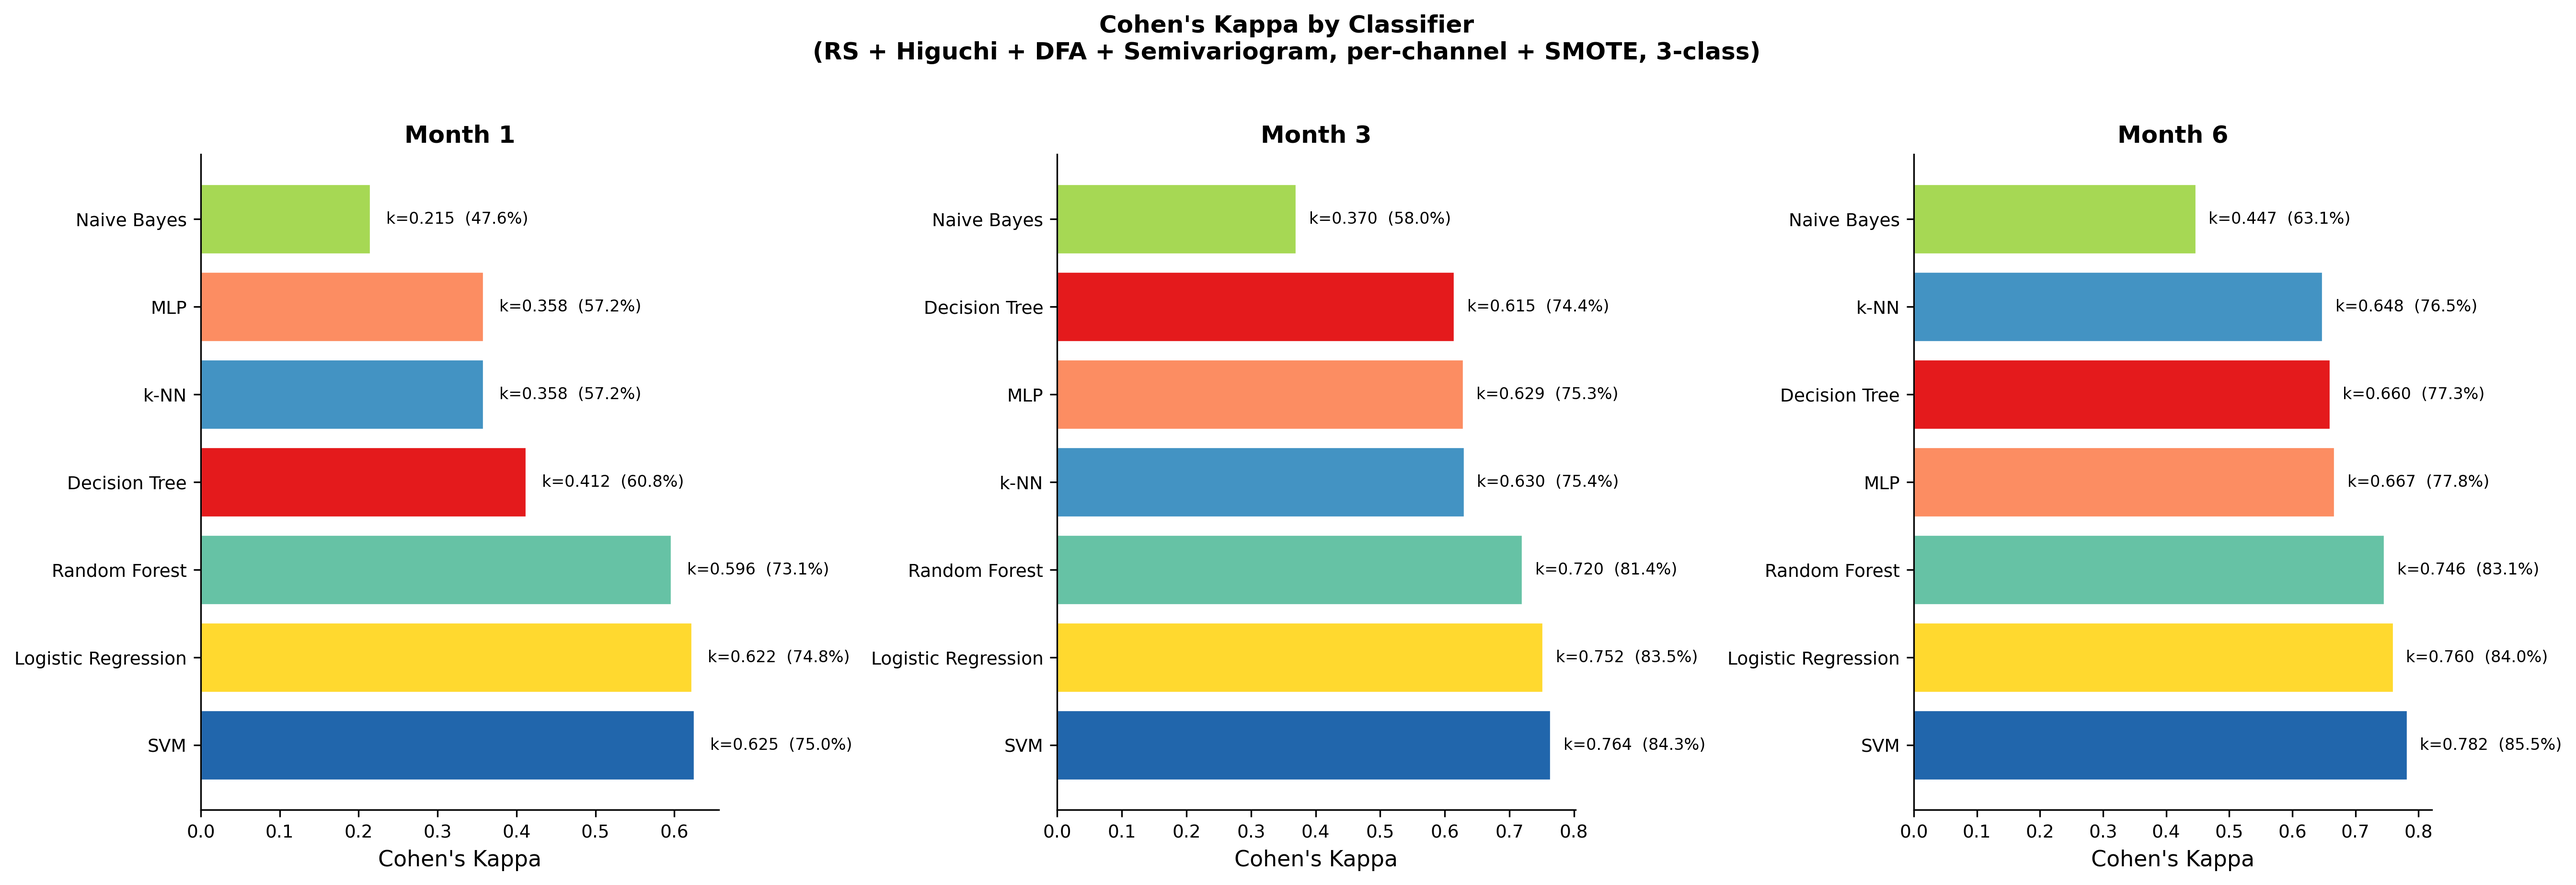
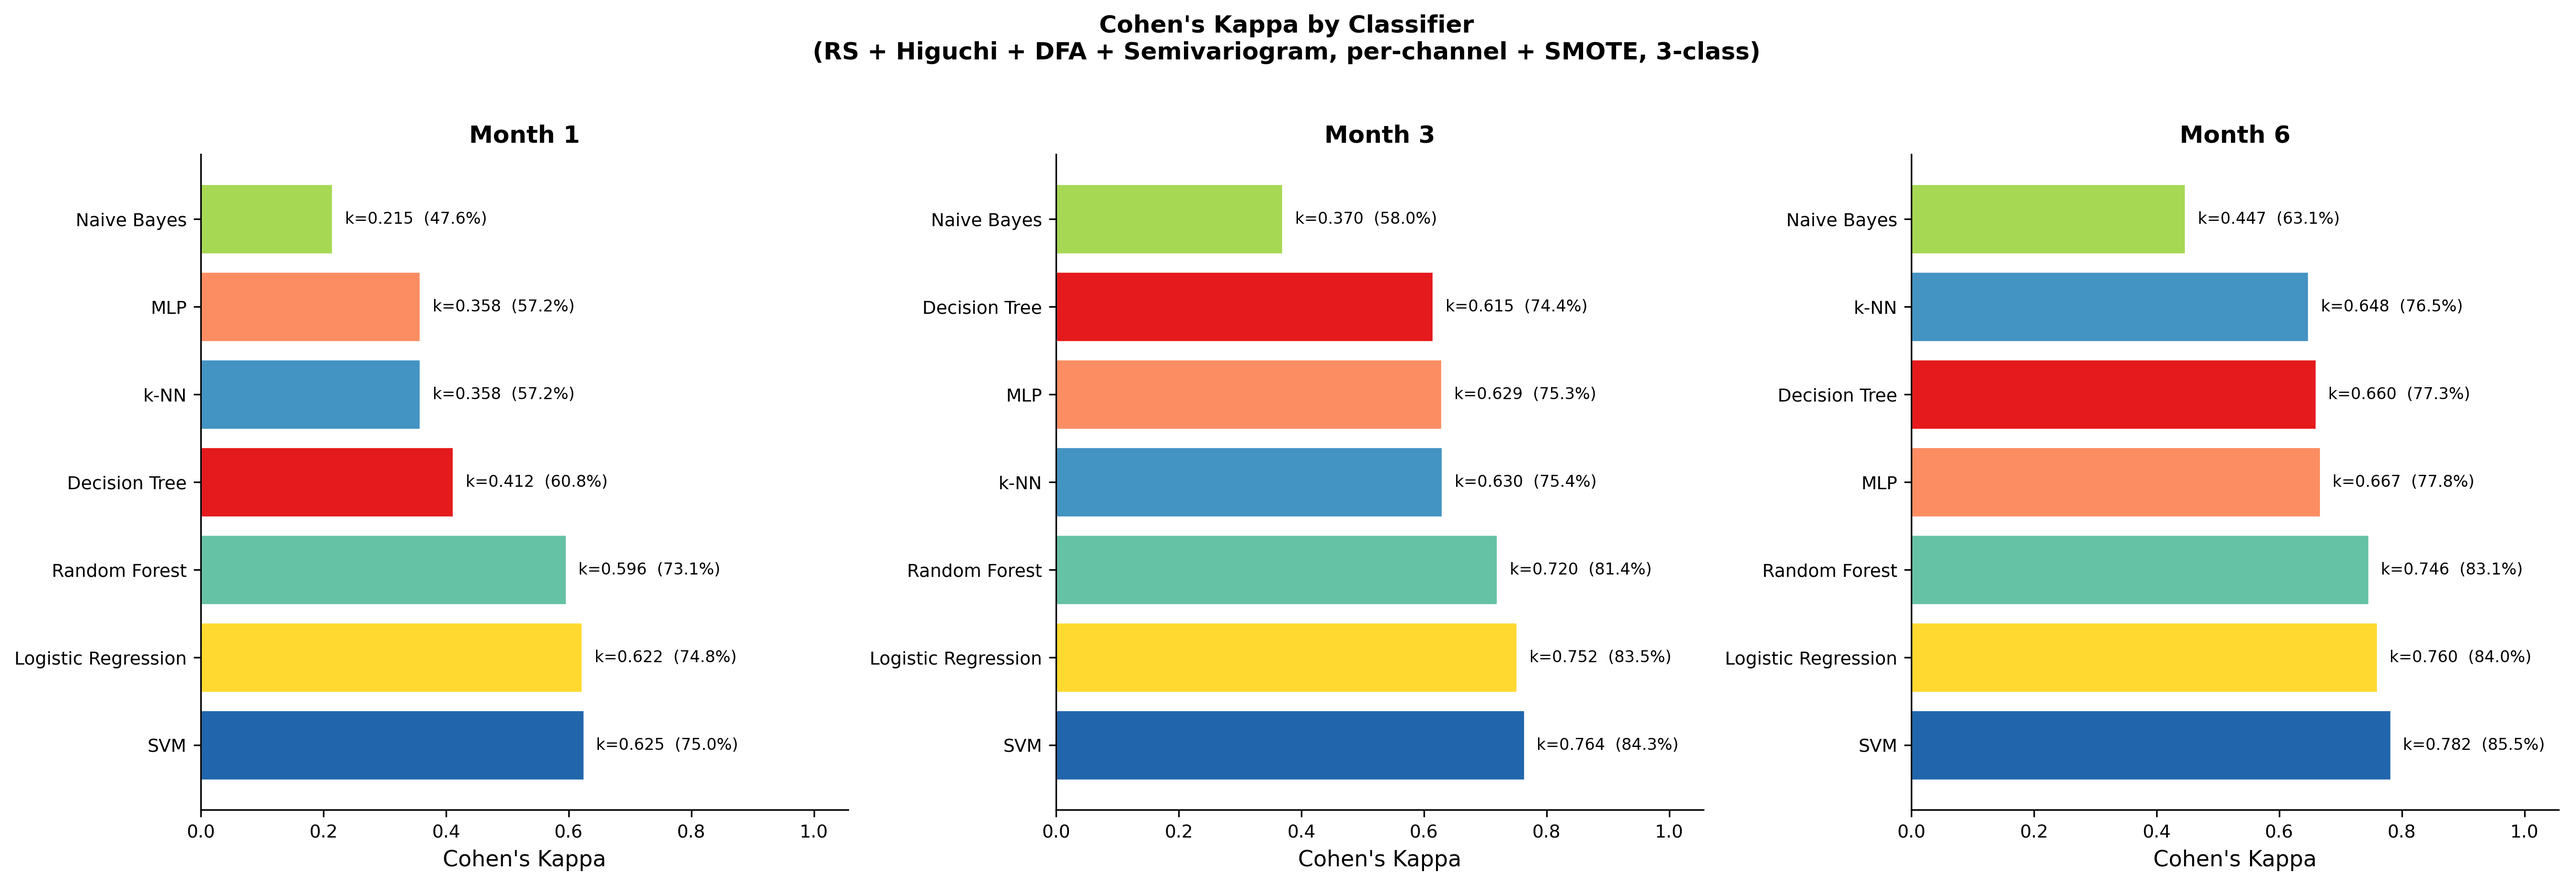
Fix INFORME_FRACTAL.md figure bugs (stale CSV, truncated/inconsistent axes) + add heatmap view
Same audit pass applied to the second document's plotting code
(src/viz/plots_fractal.py, INFORME_FRACTAL.md's SMOTE-based 3-class track)
after fixing the equivalent bugs in the W700/INFORME_COMPLETO.md pipeline:

- src/viz/plots_fractal.py: RESULTS_CSV pointed at
  "results_W700_fractal_extended.csv", a filename
  scripts/classify_fractal_extended.py stopped writing to (it writes
  "..._v2.csv") — the same stale-pointer bug pattern found in
  classify_w700_full.py earlier in this branch. Fixed to read the v2 file
  (a strict superset of columns, verified 0 max-abs-diff on the shared
  Accuracy/Kappa columns in this snapshot, so no rendered numbers changed
  today — but the pointer was wrong regardless).
- plot_kappa_comparison(): the 3 per-month subplots auto-scaled their x-axis
  independently (Month 1 topped out near 0.6, Month 3/6 near 0.8), making
  bars visually similar in length across months despite different absolute
  kappa values. Now computed and shared across all 3 subplots.
- scripts/plot_tuned_results.py plot_tuning_impact(): bar chart y-axis was
  set_ylim(60, 94) — a non-zero baseline on a bar chart (unlike a line
  chart) visually exaggerates the default-vs-tuned gap, and was
  inconsistent with the sibling plot in the same file which starts at 0.
  Changed to (0, 95); had to scale up the value-label/delta-annotation
  offsets ~2.8x to match (they were tuned for the old, much narrower
  visible range and started overlapping on the taller axis).
[…]

diff --git a/src/viz/plots_fractal.py b/src/viz/plots_fractal.py
@@ -45,7 +45,13 @@ C_MONTHS = {"Month 1": "#377EB8", "Month 3": "#4DAF4A", "Month 6": "#E41A1C"}
 
 ALL_CHANNELS = cfg.CHANNEL_NAMES
 PER_CH_METHODS_BASIC = ["RS", "Higuchi", "DFA", "Variogram"]
-RESULTS_CSV = os.path.join(cfg.CLASSIFICATION_DIR, "results_W700_fractal_extended.csv")
+# NOTE: was "results_W700_fractal_extended.csv" (no "_v2") — a stale
+# filename that scripts/classify_fractal_extended.py stopped writing to at
+# some point (it writes "..._v2.csv"). Every plot below that reads via
+# _load_results() was silently drawing from an older classification run.
+# v2 is a strict superset of columns (adds Patient_Accuracy_Mean/Std,
+# N_Patients) with the same row count/structure, so this is a safe swap.
+RESULTS_CSV = os.path.join(cfg.CLASSIFICATION_DIR, "results_W700_fractal_extended_v2.csv")
 FEATURES_CSV = os.path.join(cfg.FEATURES_DIR, "Fixed_W700_3class_Features.csv")
 PLOTS_DIR = cfg.PLOTS_DIR
 
@@ -305,6 +311,134 @@ def plot_per_channel_comparison(output_dir=None):
     print("  [OK] per_channel_comparison.png")
 
 
+# ==================== PLOT 3b (heatmap alternative, added separately) ====================
+def plot_per_channel_comparison_heatmap(output_dir=None):
+    """Heatmap alternative to plot_per_channel_comparison() above.
+
+    Same 7-model x 10-feature-subset x 3-month data (including the same
+    TUNED_INDIVIDUAL/TUNED_BASIC hardcoded overrides), rendered as an
+    annotated heatmap instead of grouped bars. The grouped-bar version
+    packs 7*10=70 bars into each of 3 subplots, which is dense enough to be
+    hard to read at print size; a heatmap reads the same numbers via color
+    + text instead of 70 adjacent bar heights.
+
+    Does NOT modify or replace plot_per_channel_comparison() or its output
+    file — saves to a separate "per_channel_comparison_heatmap.png".
+    """
+    output_dir = _ensure_dir() if output_dir is None else output_dir
+    df = _load_results()
+    sub3 = df[(df["Class_Type"] == "3class") & (df["Group"] == "B")]
+
+    pc_ids = ["B2_HO_pc", "B3_HV_pc", "B1_HRS_pc", "B4_Martinez_pc",
+              "_RS", "_Higuchi", "_DFA", "_Semivariogram",
+              "B5_Basic_pc", "B6_All7_pc"]
+    pc_labels = ["Hurst (HO)", "Hurst—Semivariogram (HV)", "Hurst R/S (HRS) p=64",
+                 "HO + HRS + HV", "RS", "Higuchi", "DFA", "Semivariogram",
+                 "RS+Higuchi+DFA+Semivariogram", "All 7 (Basic+HO+HRS+HV)"]
+    model_order = ["SVM", "kNN", "RandomForest", "NaiveBayes", "LogisticRegression", "MLP", "DecisionTree"]
+    model_display = {"SVM": "SVM", "kNN": "k-NN", "RandomForest": "Random Forest",
+                     "NaiveBayes": "Naive Bayes", "LogisticRegression": "Logistic Regression",
+                     "MLP": "MLP", "DecisionTree": "Decision Tree"}
+
+    # Identical lookup tables to plot_per_channel_comparison(), duplicated
+    # rather than shared so neither function depends on the other.
+    TUNED_INDIVIDUAL = {
+        "Mes 1": {
+            "_RS": {"SVM": 57.76, "kNN": 47.24, "RandomForest": 59.69, "NaiveBayes": 44.08,
+                    "LogisticRegression": 53.98, "MLP": 53.06, "DecisionTree": 52.35},
+            "_Higuchi": {"SVM": 75.20, "kNN": 65.31, "RandomForest": 70.51, "NaiveBayes": 47.24,
+                         "LogisticRegression": 76.12, "MLP": 65.82, "DecisionTree": 65.82},
+            "_DFA": {"SVM": 66.02, "kNN": 62.35, "RandomForest": 67.76, "NaiveBayes": 46.22,
+                     "LogisticRegression": 62.86, "MLP": 56.02, "DecisionTree": 59.59},
+            "_Semivariogram": {"SVM": 67.55, "kNN": 60.92, "RandomForest": 65.82, "NaiveBayes": 46.53,
+                               "LogisticRegression": 64.59, "MLP": 58.78, "DecisionTree": 58.57},
+        },
+        "Mes 6": {
+            "_RS": {"SVM": 67.98, "kNN": 63.47, "RandomForest": 73.62, "NaiveBayes": 52.76,
+                    "LogisticRegression": 66.18, "MLP": 61.56, "DecisionTree": 62.68},
+            "_Higuchi": {"SVM": 81.17, "kNN": 81.85, "RandomForest": 83.20, "NaiveBayes": 57.50,
+                         "LogisticRegression": 84.22, "MLP": 73.96, "DecisionTree": 77.45},
+            "_DFA": {"SVM": 77.00, "kNN": 73.39, "RandomForest": 80.83, "NaiveBayes": 55.81,
+                     "LogisticRegression": 76.10, "MLP": 70.69, "DecisionTree": 73.39},
+            "_Semivariogram": {"SVM": 78.02, "kNN": 74.52, "RandomForest": 78.69, "NaiveBayes": 58.74,
+                               "LogisticRegression": 78.92, "MLP": 68.88, "DecisionTree": 73.62},
+        },
+        "Mes 3": {
+            "_RS": {"SVM": 61.36, "kNN": 57.91, "RandomForest": 66.18, "NaiveBayes": 53.64,
+                    "LogisticRegression": 58.27, "MLP": 50.09, "DecisionTree": 59.00},
+            "_Higuchi": {"SVM": 83.45, "kNN": 76.45, "RandomForest": 80.36, "NaiveBayes": 53.45,
+                         "LogisticRegression": 80.82, "MLP": 57.73, "DecisionTree": 74.18},
+            "_DFA": {"SVM": 64.82, "kNN": 59.27, "RandomForest": 65.00, "NaiveBayes": 53.82,
+                     "LogisticRegression": 61.00, "MLP": 51.45, "DecisionTree": 57.55},
+            "_Semivariogram": {"SVM": 72.64, "kNN": 66.82, "RandomForest": 72.82, "NaiveBayes": 53.09,
+                               "LogisticRegression": 65.36, "MLP": 53.09, "DecisionTree": 65.45},
+        },
+    }
+    TUNED_BASIC = {
+        "Mes 1": {"SVM": 75.00, "kNN": 57.24, "RandomForest": 73.06, "NaiveBayes": 47.65,
+                  "LogisticRegression": 74.80, "MLP": 57.24, "DecisionTree": 60.82},
+        "Mes 3": {"SVM": 84.27, "kNN": 75.36, "RandomForest": 81.36, "NaiveBayes": 58.00,
+                  "LogisticRegression": 83.45, "MLP": 75.27, "DecisionTree": 74.36},
+        "Mes 6": {"SVM": 85.46, "kNN": 76.55, "RandomForest": 83.09, "NaiveBayes": 63.13,
+                  "LogisticRegression": 83.99, "MLP": 77.79, "DecisionTree": 77.34},
+    }
+
+    months_disp = ["Month 1", "Month 3", "Month 6"]
+    months_key = ["Mes 1", "Mes 3", "Mes 6"]
+
+    # Build one (n_subsets x n_models) accuracy matrix per month first, so
+    # all three heatmaps can share one color scale (same principle as the
+    # kappa_comparison.png x-axis fix: comparable panels need comparable ranges).
+    matrices = []
+    for mkey in months_key:
+        ms = sub3[sub3["Month"] == mkey]
+        mat = np.full((len(pc_ids), len(model_order)), np.nan)
+        for r, sid in enumerate(pc_ids):
+            for c, mname in enumerate(model_order):
+                if sid == "B5_Basic_pc" and mkey in TUNED_BASIC:
+                    mat[r, c] = TUNED_BASIC[mkey].get(mname, np.nan)
+                elif sid.startswith("_") and mkey in TUNED_INDIVIDUAL and sid in TUNED_INDIVIDUAL[mkey]:
+                    mat[r, c] = TUNED_INDIVIDUAL[mkey][sid].get(mname, np.nan)
+                else:
+                    row = ms[(ms["Model"] == mname) & (ms["Feature_Subset"] == sid)]
+                    if len(row) > 0:
+                        mat[r, c] = row.iloc[0]["Accuracy"] * 100
+        matrices.append(mat)
+
+    vmin = np.nanmin([np.nanmin(m) for m in matrices])
+    vmax = np.nanmax([np.nanmax(m) for m in matrices])
+
+    fig, axes = plt.subplots(1, 3, figsize=(19, 7), sharey=True)
+    im = None
+    for ax, mat, mdisp in zip(axes, matrices, months_disp):
+        im = ax.imshow(mat, cmap="YlGnBu", vmin=vmin, vmax=vmax, aspect="auto")
+        ax.set_xticks(range(len(model_order)))
+        ax.set_xticklabels([model_display[m] for m in model_order], rotation=40, ha="right", fontsize=8)
+        ax.set_title(mdisp, fontweight="bold")
+        # Text color flips to white on the darkest (highest-accuracy) cells
+        # for legibility against the sequential colormap.
+        threshold = vmin + (vmax - vmin) * 0.65
+        for r in range(mat.shape[0]):
+            for c in range(mat.shape[1]):
+                v = mat[r, c]
+                if np.isnan(v):
+                    continue
+                color = "white" if v >= threshold else "black"
+                ax.text(c, r, f"{v:.1f}", ha="center", va="center", fontsize=7, color=color)
+    axes[0].set_yticks(range(len(pc_labels)))
+    axes[0].set_yticklabels(pc_labels, fontsize=8)
+
+    cbar = fig.colorbar(im, ax=axes, fraction=0.02, pad=0.02)
+    cbar.set_label("Accuracy (%)")
+
+    fig.suptitle("Per-Channel Feature Subset Comparison (3-class, SMOTE) — heatmap view",
+                 fontweight="bold", y=1.03)
+    path = os.path.join(output_dir, "per_channel_comparison_heatmap.png")
+    fig.savefig(path, bbox_inches="tight")
+    plt.close(fig)
+    print("  [OK] per_channel_comparison_heatmap.png")
+
+
 # ==================== PLOT 4 ====================
 def plot_channel_scaling(output_dir=None):
     output_dir = _ensure_dir() if output_dir is None else output_dir
@@ -502,9 +636,14 @@ def plot_kappa_comparison(output_dir=None):
                     "NaiveBayes": "#A6D854", "LogisticRegression": "#FFD92F",
                     "MLP": "#FC8D62", "DecisionTree": "#E41A1C"}
 
-    fig, axes = plt.subplots(1, 3, figsize=(18, 6))
-    for ax_idx, (mkey, mdisp) in enumerate(zip(months_key, months_disp)):
-        ax = axes[ax_idx]
+    # First pass: build each month's data and find the global max kappa, so
+    # all three subplots can share one x-axis range (was auto-scaled
+    # per-subplot before — Month 1 topped out near 0.6 while Month 3/6 went
+    # to ~0.8, making the bars visually similar in length across subplots
+    # despite representing different absolute kappa values).
+    months_data = []
+    global_max_kappa = 0.0
+    for mkey, mdisp in zip(months_key, months_disp):
         if mkey in TUNED_KAPPA:
             data = [{"model": m, "kappa": TUNED_KAPPA[mkey][m], "acc": TUNED_ACC[mkey][m]} for m in model_order]
         else:
@@ -515,6 +654,15 @@ def plot_kappa_comparison(output_dir=None):
                 if len(row) > 0:
                     data.append({"model": mname, "kappa": row.iloc[0]["Kappa"], "acc": row.iloc[0]["Accuracy"] * 100})
         data.sort(key=lambda d: d["kappa"], reverse=True)
+        months_data.append(data)
+        if data:
+            global_max_kappa = max(global_max_kappa, max(d["kappa"] for d in data))
+
+    shared_xlim = global_max_kappa * 1.35  # headroom for the "k=... (...%)" text labels
+
+    fig, axes = plt.subplots(1, 3, figsize=(18, 6))
+    for ax_idx, (mdisp, data) in enumerate(zip(months_disp, months_data)):
+        ax = axes[ax_idx]
         models = [d["model"] for d in data]
         kappas = [d["kappa"] for d in data]
         accs = [d["acc"] for d in data]
@@ -527,6 +675,7 @@ def plot_kappa_comparison(output_dir=None):
         ax.set_xlabel("Cohen's Kappa")
         ax.set_title(mdisp, fontweight="bold")
         ax.axvline(x=0, color="black", linewidth=0.5)
+        ax.set_xlim(0, shared_xlim)
         for bar, k, acc in zip(ax.patches, kappas, accs):
             ax.text(bar.get_width() + 0.02, bar.get_y() + bar.get_height() / 2,
                     f"k={k:.3f}  ({acc:.1f}%)", va="center", fontsize=8)

diff --git a/scripts/plot_tuned_results.py b/scripts/plot_tuned_results.py
@@ -162,17 +162,21 @@ def plot_tuning_impact():
     bars1 = ax.bar(x - width / 2, defaults, width, label="SVM (default)", color="#D1E5F0", edgecolor="white")
     bars2 = ax.bar(x + width / 2, tuned, width, label="SVM (optimized)", color="#2166AC", edgecolor="white")
 
+    # Label offsets scaled up ~2.8x vs. the original (were tuned for the old
+    # set_ylim(60, 94) truncated axis, where 34 data-units filled the figure
+    # height; on the honest 0-95 axis the same absolute offsets left the
+    # value labels and the "+X pts" delta boxes visually overlapping.
     for bar, v in zip(bars1, defaults):
-        ax.text(bar.get_x() + bar.get_width() / 2, bar.get_height() + 0.5,
+        ax.text(bar.get_x() + bar.get_width() / 2, bar.get_height() + 1.5,
                 f"{v:.1f}%", ha="center", fontsize=9)
     for bar, v in zip(bars2, tuned):
-        ax.text(bar.get_x() + bar.get_width() / 2, bar.get_height() + 0.5,
+        ax.text(bar.get_x() + bar.get_width() / 2, bar.get_height() + 1.5,
                 f"{v:.1f}%", ha="center", fontsize=9, fontweight="bold", color="#2166AC")
 
     # Deltas
     for i, (d, t) in enumerate(zip(defaults, tuned)):
         delta = t - d
-        ax.annotate(f"+{delta:.1f} pts", (x[i] + width / 2, t + 3),
+        ax.annotate(f"+{delta:.1f} pts", (x[i] + width / 2, t + 8),
                     ha="center", fontsize=10, fontweight="bold", color="#2166AC",
                     bbox=dict(boxstyle="round,pad=0.2", facecolor="white", alpha=0.8))
 
@@ -183,7 +187,11 @@ def plot_tuning_impact():
     ax.set_title("SVM: default vs. optimized hyperparameters\n(Basic per-channel features + SMOTE, 3-class)", fontsize=14, fontweight="bold")
     ax.legend(loc="lower right", fontsize=11)
     ax.grid(True, alpha=0.3, axis="y", linestyle=":")
-    ax.set_ylim(60, 94)
+    # Was set_ylim(60, 94): a non-zero baseline on a BAR chart exaggerates
+    # the visual size of the default-vs-tuned gap (bar height is the visual
+    # encoding here, unlike a line chart) and was inconsistent with the
+    # sibling plot_spatial_vs_perchannel_updated() above, which starts at 0.
+    ax.set_ylim(0, 95)
 
     fig.tight_layout()
     path = os.path.join(OUTPUT_DIR, "tuning_impact.png")

diff --git a/scripts/plot_per_channel_heatmap.py b/scripts/plot_per_channel_heatmap.py
@@ -1,0 +1,15 @@
+"""Generate the heatmap alternative to per_channel_comparison.png.
+
+Separate from scripts/plot_fractal_results.py on purpose: that script wipes
+every PNG in output/plots/ and regenerates the original 8 figures. This one
+only adds "per_channel_comparison_heatmap.png" alongside them, leaving
+per_channel_comparison.png (and everything else) untouched.
+"""
+import os, sys
+
+sys.path.insert(0, os.path.dirname(os.path.dirname(os.path.abspath(__file__))))
+from src.viz.plots_fractal import plot_per_channel_comparison_heatmap
+import config as cfg
+
+if __name__ == "__main__":
+    plot_per_channel_comparison_heatmap(cfg.PLOTS_DIR)
